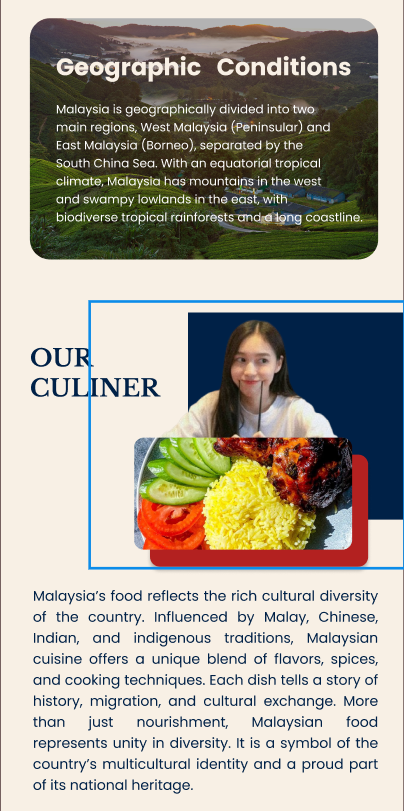
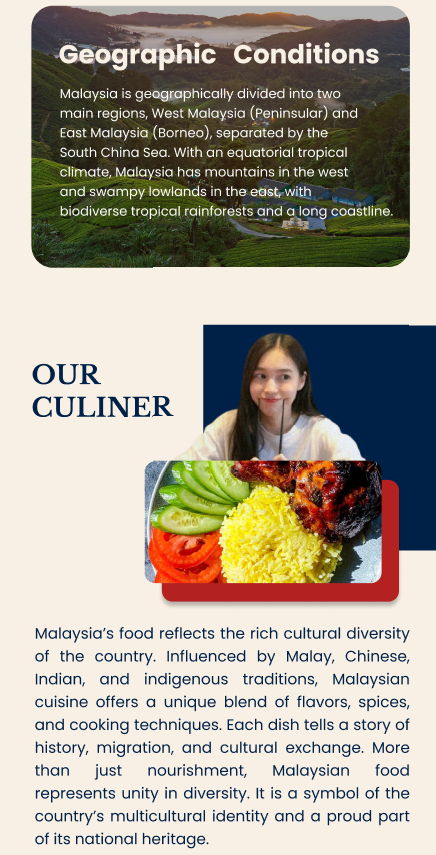
Update project files

diff --git a/lib/main.dart b/lib/main.dart
@@ -1,5 +1,6 @@
 import 'package:flutter/material.dart';
 import 'widgets/custom_layout.dart';
+import 'culture_page.dart';
 
 void main() {
   runApp(const MyApp());
@@ -27,46 +28,49 @@ class HomePage extends StatelessWidget {
 
     return CustomLayout(
       body: SingleChildScrollView(
-        // Biar aman kalau layar HP pendek
         child: Column(
           children: [
-            // STACK SEKARANG MENGIKUTI TINGGI GAMBAR
+            // 1. BANNER UTAMA DENGAN TOMBOL
             Stack(
               alignment: Alignment.bottomCenter,
               children: [
-                // 1. GAMBAR (Patokan Tinggi)
                 Image.asset(
                   'assets/images/welcome-screen.png',
                   width: double.infinity,
-                  fit: BoxFit
-                      .fitWidth, // Gambar memenuhi lebar, tinggi otomatis menyesuaikan rasio
+                  fit: BoxFit.fitWidth,
                 ),
-
-                // 2. TOMBOL-TOMBOL (Sekarang patokannya bawah GAMBAR, bukan bawah LAYAR)
                 Positioned(
-                  bottom:
-                      20, // Jarak tombol dari bawah gambar (sesuaikan biar pas)
+                  bottom: 22,
                   left: 0,
                   right: 0,
                   child: Row(
                     mainAxisAlignment: MainAxisAlignment.center,
                     children: [
-                      // TOMBOL EXPLORE TOURISM
                       _buildButton(
+                        context: context,
                         label: 'Explore Tourism',
                         icon: Icons.explore_outlined,
                         bgColor: navyColor,
                         textColor: kremColor,
+                        onPressed: () {
+                          debugPrint("Explore Tourism Clicked");
+                        },
                       ),
-
-                      const SizedBox(width: 15), // Jarak antar tombol
-                      // TOMBOL DISCOVER CULTURE
+                      const SizedBox(width: 15),
                       _buildButton(
+                        context: context,
                         label: 'Discover Culture',
                         icon: Icons.museum_outlined,
                         bgColor: Colors.transparent,
                         textColor: kremColor,
                         isOutlined: true,
+                        onPressed: () {
+                          // NAVIGASI KE CULTURE PAGE
+                          Navigator.push(
+                            context,
+                            MaterialPageRoute(builder: (context) => const CulturePage()),
+                          );
+                        },
                       ),
                     ],
                   ),
@@ -74,49 +78,72 @@ class HomePage extends StatelessWidget {
               ],
             ),
 
-            // --- JARAK ANTARA BANNER DAN STORY ---
-            const SizedBox(
-              height: 25,
-            ), // Lo bisa ganti angkanya kalau kurang jauh
-            // --- TAMBAHAN FOTO STORY DI SINI ---
+            const SizedBox(height: 25),
+
+            // 2. FOTO STORY FULL
             Image.asset(
-              'assets/images/story-full.png', // Pastikan nama file ini ada di folder assets
+              'assets/images/story-full.png',
               width: double.infinity,
               fit: BoxFit.fitWidth,
             ),
 
-            // --- FOTO TOURISM & HERITAGE ---
+            // 3. FOTO TOURISM & HERITAGE
             Image.asset(
-              'assets/images/tourism-heritage.png', // <-- Sesuaikan nama file foto Songket lo
+              'assets/images/tourism-heritage.png',
               width: double.infinity,
               fit: BoxFit.fitWidth,
             ),
 
-            // 4. FOTO GEOGRAPHIC & CULINER (FOTO TERAKHIR)
-            Image.asset(
-              'assets/images/geo-culiner.png', // <-- Pastikan nama file sesuai di folder assets
-              width: double.infinity,
-              fit: BoxFit.fitWidth,
+            const SizedBox(height: 25),
+
+            // 4. FOTO GEOGRAPHIC & CULINER DENGAN TEKS NAVIGASI
+            Stack(
+              children: [
+                Image.asset(
+                  'assets/images/geo-culiner.png',
+                  width: double.infinity,
+                  fit: BoxFit.fitWidth,
+                ),
+                
+                Positioned(
+                  bottom: 615,
+                  right: 45,
+                  child: GestureDetector(
+                    onTap: () {
+                      debugPrint("Navigasi ke halaman Geographic!");
+                    },
+                    child: const Text(
+                      "know more about geographic",
+                      style: TextStyle(
+                        color: Colors.red,
+                        fontSize: 15,
+                        fontWeight: FontWeight.bold,
+                      ),
+                    ),
+                  ),
+                ),
+              ],
             ),
 
-            // JARAK PENUTUP (Sesuai request: sisa ruang tidak kebanyakan)
-            const SizedBox(height: 30),
+            const SizedBox(height: 30), 
           ],
         ),
       ),
     );
   }
 
-  // Fungsi Helper biar kode lo nggak berantakan kebanyakan copy-paste
+  // Fungsi Helper Tombol yang sudah diperbaiki
   Widget _buildButton({
+    required BuildContext context,
     required String label,
     required IconData icon,
     required Color bgColor,
     required Color textColor,
+    required VoidCallback onPressed, // Tambahkan ini
     bool isOutlined = false,
   }) {
     return SizedBox(
-      width: 135, // Sesuaikan lebar agar pas di layar
+      width: 135,
       height: 38,
       child: ElevatedButton.icon(
         style: ElevatedButton.styleFrom(
@@ -131,9 +158,7 @@ class HomePage extends StatelessWidget {
           ),
           padding: const EdgeInsets.symmetric(horizontal: 5),
         ),
-        onPressed: () {
-          debugPrint("$label clicked");
-        },
+        onPressed: onPressed, // Gunakan parameter onPressed
         icon: Icon(icon, size: 18),
         label: Text(
           label,

diff --git a/lib/widgets/custom_layout.dart b/lib/widgets/custom_layout.dart
@@ -1,23 +1,89 @@
 import 'package:flutter/material.dart';
+import '../culture_page.dart';
 
 class CustomLayout extends StatelessWidget {
   final Widget body;
 
   const CustomLayout({super.key, required this.body});
 
+  // Fungsi helper buat pindah halaman
+  void _navigateTo(BuildContext context, Widget page) {
+    Navigator.pop(context); // Tutup drawer dulu
+    Navigator.push(context, MaterialPageRoute(builder: (context) => page));
+  }
+
   @override
   Widget build(BuildContext context) {
-    // Gunakan warna krem yang sama dengan background logo di screenshot
     const Color themeColor = Color(0xFFF8F0E5);
     const Color navyColor = Color(0xFF012B47);
 
     return Scaffold(
-      backgroundColor: themeColor, // Background dasar krem
+      backgroundColor: themeColor,
+
+      // --- DRAWER (MENU NAVIGASI) ---
+      drawer: Drawer(
+        child: Container(
+          color: themeColor,
+          child: ListView(
+            padding: EdgeInsets.zero,
+            children: [
+              // HEADER DRAWER CUSTOM (Posisi & Ukuran bisa diatur manual)
+              Container(
+                width: double.infinity,
+                height: 220, // <--- Atur tinggi area navy di sini
+                decoration: const BoxDecoration(color: navyColor),
+                child: Align(
+                  /// Alignment(x, y)
+                  /// x: 0.0 (tengah), -1.0 (kiri), 1.0 (kanan)
+                  /// y: 0.0 (tengah), -1.0 (atas banget), 1.0 (bawah banget)
+                  /// Ubah angka 0.2 di bawah untuk naik-turunkan foto
+                  alignment: const Alignment(0.0, 0.2), 
+                  child: SizedBox(
+                    width: 192, // <--- Atur lebar foto manual
+                    height: 192, // <--- Atur tinggi foto manual
+                    child: Image.asset(
+                      'assets/images/logo-teks-putih.png',
+                      fit: BoxFit.contain,
+                    ),
+                  ),
+                ),
+              ),
+
+              const SizedBox(height: 10), // Jarak tipis antara header dan menu
+
+              // MENU HOME
+              ListTile(
+                leading: const Icon(Icons.home, color: navyColor),
+                title: const Text(
+                  'Home',
+                  style: TextStyle(fontWeight: FontWeight.bold),
+                ),
+                onTap: () {
+                  Navigator.pop(context); // Tutup drawer
+                  Navigator.of(context).popUntil((route) => route.isFirst);
+                },
+              ),
+
+              // MENU CULTURE
+              ListTile(
+                leading: const Icon(Icons.museum, color: navyColor),
+                title: const Text(
+                  'Culture',
+                  style: TextStyle(fontWeight: FontWeight.bold),
+                ),
+                onTap: () {
+                  _navigateTo(context, const CulturePage());
+                },
+              ),
+            ],
+          ),
+        ),
+      ),
+
+      // --- APPBAR CUSTOM ---
       appBar: PreferredSize(
-        // Tinggi header disesuaikan supaya pas sama area krem di gambar lo
         preferredSize: const Size.fromHeight(80),
         child: SafeArea(
-          // Kita kasih Container warna krem biar headernya solid
           child: Container(
             color: themeColor,
             padding: const EdgeInsets.symmetric(horizontal: 15.0),
@@ -26,7 +92,6 @@ class CustomLayout extends StatelessWidget {
               crossAxisAlignment: CrossAxisAlignment.center,
               children: [
                 // LOGO KIRI
-                // Posisi logo dibuat pas di tengah secara vertikal
                 SizedBox(
                   height: 50,
                   child: Image.asset(
@@ -34,21 +99,25 @@ class CustomLayout extends StatelessWidget {
                     fit: BoxFit.contain,
                   ),
                 ),
+
                 // MENU HAMBURGER KANAN
-                IconButton(
-                  padding: EdgeInsets.zero,
-                  constraints: const BoxConstraints(),
-                  icon: const Icon(Icons.menu, color: navyColor, size: 35),
-                  onPressed: () {
-                    // Tambahin fungsi menu di sini nanti
-                  },
+                Builder(
+                  builder: (context) => IconButton(
+                    padding: EdgeInsets.zero,
+                    constraints: const BoxConstraints(),
+                    icon: const Icon(Icons.menu, color: navyColor, size: 35),
+                    onPressed: () {
+                      Scaffold.of(context).openDrawer();
+                    },
+                  ),
                 ),
               ],
             ),
           ),
         ),
       ),
-      // Body bakal nampilin gambar welcome-screen.png lo tepat di bawah header ini
+
+      // --- BODY HALAMAN ---
       body: body,
     );
   }

diff --git a/lib/culture_page.dart b/lib/culture_page.dart
@@ -1,0 +1,34 @@
+import 'package:flutter/material.dart';
+import 'widgets/custom_layout.dart';
+
+class CulturePage extends StatelessWidget {
+  const CulturePage({super.key});
+
+  @override
+  Widget build(BuildContext context) {
+    // Warna background yang konsisten
+    const Color kremColor = Color(0xFFF8F0E5);
+
+    return CustomLayout(
+      body: Container(
+        color: kremColor,
+        child: SingleChildScrollView(
+          child: Column(
+            children: [
+              // 1. BANNER WELCOME (Persis kayak di Main)
+              Image.asset(
+                'assets/images/culture.png',
+                width: double.infinity,
+                fit: BoxFit.fitWidth,
+              ),
+
+              // 2. AREA KOSONG (Warna Krem)
+              // Kita kasih SizedBox dengan height tinggi biar kelihatan "kosong" tapi bisa di-scroll
+              const SizedBox(height: 1000), 
+            ],
+          ),
+        ),
+      ),
+    );
+  }
+}
